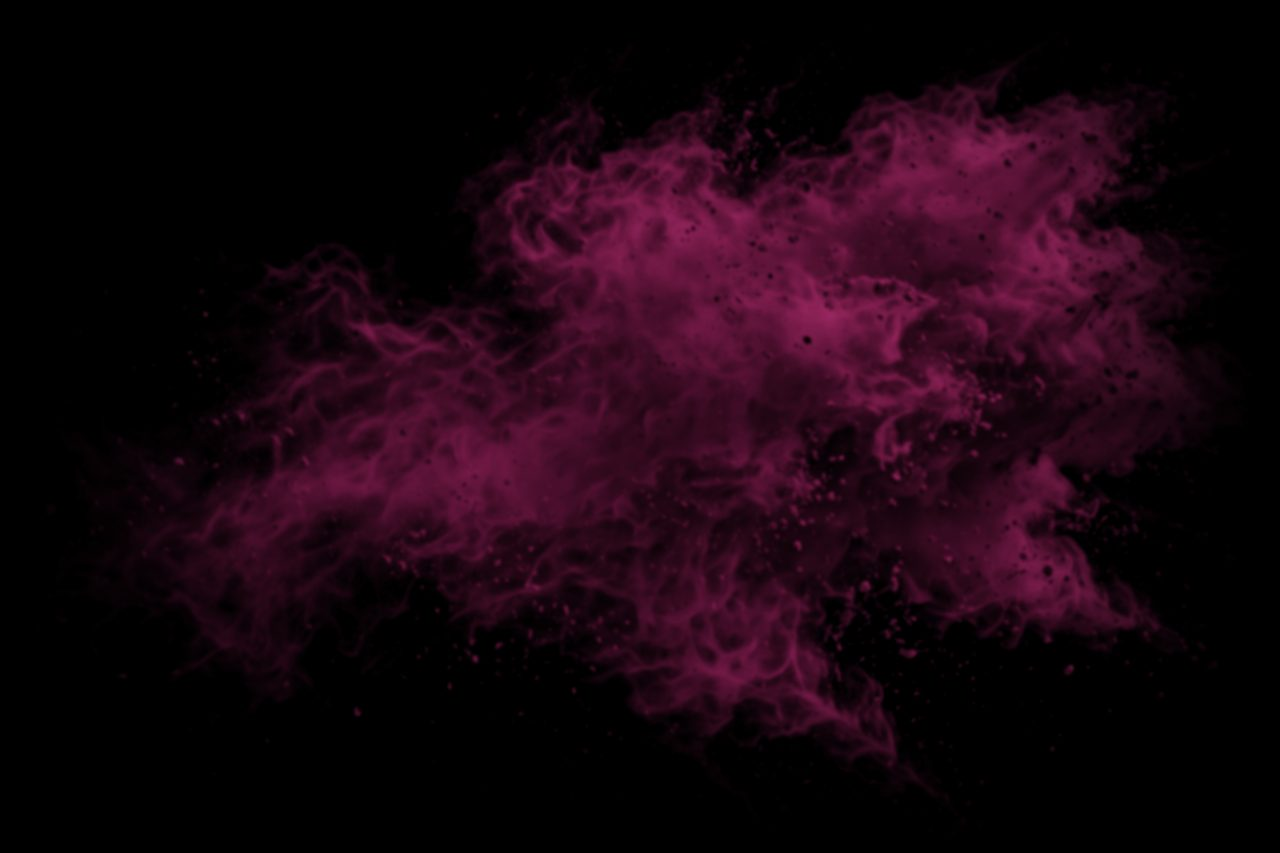
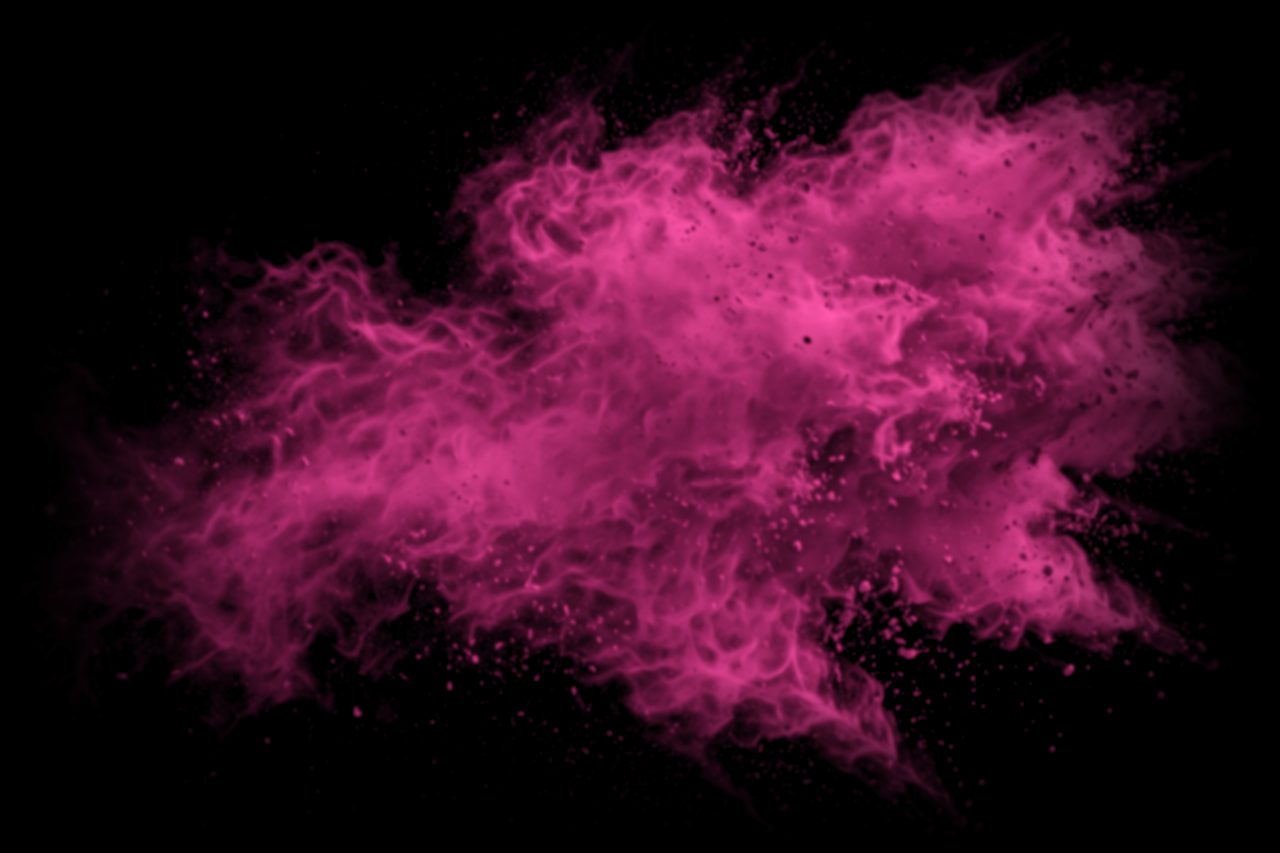
Theme: more and denser chalk (five bursts, thicker powder, stronger smoke) with a dark veil behind the content column
The chalk fills both side margins like the screen mockups; main#app gets a soft-edged dark veil
(--color-content-veil) so text placed straight on the page stays readable over it.

diff --git a/web/theme/tokens.css b/web/theme/tokens.css
@@ -47,12 +47,13 @@
   /* depth (brand design 2026-11-01): lime is the only pop colour; pink lives in the back layer as smoke and halftone
      dots, and every grey card carries a faint halftone dot field that fades into its grey, so no surface is flat */
   --color-pink: var(--palette-pink);
-  --color-pink-smoke: rgb(255 45 149 / 24%);
+  --color-pink-smoke: rgb(255 45 149 / 34%);
   --color-pink-smoke-soft: rgb(255 45 149 / 11%);
   --color-pink-dot: rgb(255 45 149 / 60%);
   --color-lime-dot: rgb(198 243 90 / 45%);
   --color-card-dot: rgb(255 255 255 / 6%);
   --color-card-sheen: rgb(255 255 255 / 4%);
+  --color-content-veil: rgb(10 10 10 / 78%);   /* behind the content column, so text on the page reads over the chalk */
   --mask-on: var(--palette-pure-black);
   --halftone-card-size: 6px;
   --halftone-back-size: 11px;
@@ -70,10 +71,14 @@
      out) over soft pink smoke, under the halftone fields drawn by base.css; img/ is beside this file */
   --powder-a: url("img/powder-a.jpg");
   --powder-b: url("img/powder-b.jpg");
-  --backdrop: var(--powder-a) right -16vw top -18vh / min(52vw, 780px) auto no-repeat,
-              var(--powder-b) left -20vw bottom -20vh / min(46vw, 700px) auto no-repeat,
-              radial-gradient(ellipse 34% 30% at 100% 0%, var(--color-pink-smoke) 0%, transparent 72%),
-              radial-gradient(ellipse 30% 28% at 0% 100%, var(--color-pink-smoke) 0%, transparent 72%),
+  --powder-c: url("img/powder-c.jpg");
+  --backdrop: var(--powder-a) right -14vw top 2vh / min(82vw, 1250px) auto no-repeat,
+              var(--powder-b) left -16vw top 30vh / min(78vw, 1200px) auto no-repeat,
+              var(--powder-c) right -12vw bottom -12vh / min(64vw, 980px) auto no-repeat,
+              var(--powder-c) left -18vw top -14vh / min(56vw, 860px) auto no-repeat,
+              var(--powder-a) left -20vw bottom -18vh / min(58vw, 900px) auto no-repeat,
+              radial-gradient(ellipse 38% 60% at 100% 40%, var(--color-pink-smoke) 0%, transparent 75%),
+              radial-gradient(ellipse 38% 60% at 0% 60%, var(--color-pink-smoke) 0%, transparent 75%),
               var(--color-bg);
 
   /* semantic: overlays on top of video or the page */

diff --git a/web/theme/base.css b/web/theme/base.css
@@ -5,8 +5,8 @@ body { background: var(--backdrop); background-attachment: fixed; background-ble
 body::before, body::after { content: ""; position: fixed; inset: 0; z-index: -1; pointer-events: none; }
 body::before {
   background: radial-gradient(circle, var(--color-pink-dot) 0 1.7px, transparent 2.2px) 0 0 / var(--halftone-back-size) var(--halftone-back-size);
-  -webkit-mask-image: radial-gradient(ellipse 30% 28% at 100% 0%, var(--mask-on) 0%, transparent 72%), radial-gradient(ellipse 26% 26% at 0% 100%, var(--mask-on) 0%, transparent 70%);
-  mask-image: radial-gradient(ellipse 30% 28% at 100% 0%, var(--mask-on) 0%, transparent 72%), radial-gradient(ellipse 26% 26% at 0% 100%, var(--mask-on) 0%, transparent 70%);
+  -webkit-mask-image: radial-gradient(ellipse 26% 40% at 100% 30%, var(--mask-on) 0%, transparent 72%), radial-gradient(ellipse 24% 40% at 0% 68%, var(--mask-on) 0%, transparent 70%);
+  mask-image: radial-gradient(ellipse 26% 40% at 100% 30%, var(--mask-on) 0%, transparent 72%), radial-gradient(ellipse 24% 40% at 0% 68%, var(--mask-on) 0%, transparent 70%);
 }
 body::after {
   background: radial-gradient(circle, var(--color-lime-dot) 0 1.3px, transparent 1.8px) 0 0 / var(--halftone-lime-size) var(--halftone-lime-size);
@@ -61,3 +61,9 @@ h2 { font-weight: var(--weight-bold); letter-spacing: -0.01em; }
 .brand .logo-head { height: 40px; width: auto; }
 .splash-tag { color: var(--color-text); font-size: var(--text-md); }
 @media (prefers-reduced-motion: reduce) { .splash { transition: none; } }
+
+/* the content column sits on a soft dark veil, so text placed straight on the page stays readable over the chalk;
+   the veil fades out at both sides and the chalk stays dense in the margins (brand design 2026-11-01) */
+main#app { position: relative; }
+main#app::before { content: ""; position: absolute; top: 0; bottom: 0; left: -64px; right: -64px; z-index: -1; pointer-events: none;
+  background: linear-gradient(90deg, transparent 0, var(--color-content-veil) 64px, var(--color-content-veil) calc(100% - 64px), transparent 100%); }
